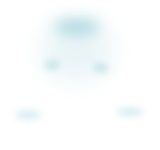
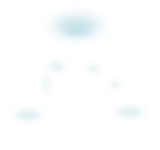
El capitán Buscapina: la luz de la tele le pega a él, y la boleta sale para afuera
La luz va encima del títere (sumada): cuando pone el partido, lo que se le
calienta es la gorra, los hombros y la rodilla. El golpe de muñeca abre el
antebrazo lejos de la cara, la cara vuelta se funde sobre la nuca sin dejar
ver la nieve, y la estampa entra en los 320 caracteres del esquema.

Changed region(s): [[0.5938, 0.4, 0.6875, 0.5067], [0.2812, 0.3733, 0.3438, 0.4533]]

diff --git a/src/lib/bestiario/arte-buscapina.ts b/src/lib/bestiario/arte-buscapina.ts
@@ -605,18 +605,21 @@ const boleta = (): string => boletaD(0, 0, 16, 11, 0, 111, 0.55);
 const vaho = (): string => nube(0, 0, 13, 8, T.nieve, 'm', 0.5) + nube(4, -3, 7, 5, T.lente, 's', 0.45) + nube(-3, 2, 5, 3, T.nieve, 's', 0.4);
 
 /**
- * La luz de la tele, que la página suma (`mix-blend-mode: screen`) y la isla hace titilar. Va detrás
- * de él, porque la tele está detrás: un halo arriba de la gorra y de los hombros, en el aire con
- * nieve, y el charco a los costados.
+ * La luz de la tele, que la página suma (`mix-blend-mode: screen`) y la isla hace titilar: el halo en
+ * el aire con nieve arriba de la gorra, el charco a los costados, y encima de él lo que mira para
+ * arriba (la copa de la gorra, los hombros, la rodilla, el filo del brazo en que se apoya). Así,
+ * cuando cambia de canal, lo que cambia es la luz que le pega a él.
  */
 function luz(color: string): string {
   return (
-    nube(-6, -196, 46, 16, color, 'l', 0.7) +
-    nube(-56, -120, 16, 10, color, 'm', 0.45) +
-    nube(42, -114, 16, 10, color, 'm', 0.45) +
+    nube(-6, -198, 46, 15, color, 'l', 0.7) +
+    nube(-8, -186, 24, 5, color, 'm', 0.55) +
+    nube(-46, -117, 14, 4.5, color, 'm', 0.6) +
+    nube(26, -112, 12, 4, color, 'm', 0.5) +
+    nube(70, -80, 10, 4, color, 'm', 0.5) +
+    nube(-68, -82, 4, 22, color, 'm', 0.35) +
     nube(-104, -20, 26, 8, color, 'm', 0.4) +
-    nube(100, -26, 26, 8, color, 'm', 0.4) +
-    nube(-6, -150, 70, 60, color, 'xl', 0.22)
+    nube(100, -26, 26, 8, color, 'm', 0.4)
   );
 }
 
@@ -681,7 +684,6 @@ export function adentroDelTitere(): string {
     parte(`brazo-${n + 1}`, parte(`antebrazo-${n + 1}`, img(`buscapina-antebrazo-${n + 1}`)) + img(`buscapina-brazo-${n + 1}`));
   const [bx, by] = A.boca;
   return (
-    `<g class="bt-buscapina-luz">${parte('luz', img('buscapina-luz'), ' opacity="0.6"')}${parte('luz-cancha', img('buscapina-luz-cancha'), ' opacity="0"')}</g>` +
     parte('piernas', img('buscapina-piernas')) +
     parte(
       'espalda',
@@ -692,7 +694,8 @@ export function adentroDelTitere(): string {
         parte('cabeza', parte('nuca', img('buscapina-cabeza')) + parte('vuelta', img('buscapina-cabeza-vuelta'), ' opacity="0"')) +
         parte('vaho', img('buscapina-vaho'), ` opacity="0" transform="translate(${bx + 10} ${by - 6})"`),
     ) +
-    parte('boleta', img('buscapina-boleta'), ' opacity="0"')
+    parte('boleta', img('buscapina-boleta'), ' opacity="0"') +
+    `<g class="bt-buscapina-luz">${parte('luz', img('buscapina-luz'), ' opacity="0.6"')}${parte('luz-cancha', img('buscapina-luz-cancha'), ' opacity="0"')}</g>`
   );
 }
 

diff --git a/src/lib/bestiario/rig-buscapina.ts b/src/lib/bestiario/rig-buscapina.ts
@@ -4,16 +4,14 @@
  * para recortar cada pieza alrededor de su bisagra, y los lee la conducta
  * (`scripts/bestiario/buscapina.ts`) para moverlas sin llevarse el aerógrafo al teléfono.
  *
- * Todo va en coordenadas de títere: el (0, 0) es la nieve donde está sentado, entre las dos rodillas;
- * arriba es negativo. A escala 1 mide lo que mide el dibujo; la escena lo achica (`BUSCA.escala`).
+ * Todo va en coordenadas de títere: el (0, 0) es la nieve donde está sentado, debajo de la espina;
+ * arriba es negativo. Sentado, de la nieve a la copa de la gorra, mide unos 195; la escena lo achica a
+ * la mitad (`BUSCA.escala`), que es lo que mide una persona sentada al lado de los de Cybersiberia.
  */
 
-import { CYBER, COSAS_DE_CYBERSIBERIA } from './rig-entornos.ts';
+import { CYBER } from './rig-entornos.ts';
 
 export type P = readonly [number, number];
-
-/** Lo que mide sentado, de la nieve a la copa de la gorra. */
-export const ALTO_DIBUJADO = 202;
 
 /**
  * Dónde está sentado: delante de la tele, un poco a la izquierda del medio (la mira de abajo y de
@@ -79,9 +77,6 @@ export const BUSCA_ARMADO = {
   tirita: 1.1,
 } as const;
 
-/** La vieja silueta pintada: el capitán se toca ahora en el títere, y esto queda para los tests. */
-export const SILUETA_VIEJA = COSAS_DE_CYBERSIBERIA['el-capitan-buscapina']!;
-
 /** Un punto del títere, llevado al recinto. */
 export const enElRecinto = ([x, y]: P): P => [BUSCA.x + x * BUSCA.escala, BUSCA.piso + y * BUSCA.escala];
 
@@ -104,8 +99,11 @@ export function enElAntebrazo(n: 0 | 1, p: P, { brazo, antebrazo }: Gesto): P {
 /** Dónde queda la mano `n` con el gesto puesto. */
 export const manoCon = (n: 0 | 1, g: Gesto): P => enElAntebrazo(n, BUSCA_ARMADO.manos[n], g);
 
-/** El golpe de muñeca con que la suelta: el de `paga`, con el antebrazo un poco más atrás. */
-export const SUELTA: Gesto = { brazo: BUSCA_ARMADO.gestos.paga.brazo, antebrazo: BUSCA_ARMADO.gestos.paga.antebrazo + 22 };
+/**
+ * El golpe de muñeca con que la suelta: desde `paga`, el antebrazo se abre para afuera, lejos de la
+ * cara, que es como se tira algo por encima del hombro sin mirar dónde cae.
+ */
+export const SUELTA: Gesto = { brazo: BUSCA_ARMADO.gestos.paga.brazo - 8, antebrazo: BUSCA_ARMADO.gestos.paga.antebrazo - 34 };
 
 /**
  * El vuelo de la boleta: una parábola que sale de la mano, por encima del hombro, en el golpe de

diff --git a/src/scripts/bestiario/buscapina.ts b/src/scripts/bestiario/buscapina.ts
@@ -108,7 +108,9 @@ export function escribir(p: Pose): Record<string, { transform?: string; opacity?
       transform: `translate(${n2(p.tirita)} 0) rotate(${n2(p.inclina)} ${ax} ${ay}) translate(${ax} ${ay}) scale(1 ${(1 + p.respira * 0.012).toFixed(4)}) translate(${-ax} ${-ay})`,
     },
     cabeza: { transform: `rotate(${n2(p.cabeza)} ${cx} ${cy})` },
-    nuca: { opacity: n2(1 - p.vuelta) },
+    // La cara vuelta se funde encima de la nuca, que no se apaga hasta que la tapa entera: así no se
+    // ve la nieve a través de la cabeza a mitad del giro.
+    nuca: { opacity: p.vuelta < 0.98 ? '1.00' : '0.00' },
     vuelta: { opacity: n2(p.vuelta) },
     nieve: { opacity: n2(p.nieve) },
     vaho: { transform: `translate(${n2(p.vaho.x)} ${n2(p.vaho.y)}) scale(${n2(p.vaho.s)})`, opacity: n2(p.vaho.o) },
@@ -291,7 +293,7 @@ export const armarBuscapina: Armar | null = (marcos: readonly SVGGElement[], esc
     // La luz: la de la tele titila siempre; cuando cambia de canal se corta un instante, y el partido es tibio.
     const corte = e.modo === 'canal' && u > DURA.canal[0] + 0.15 && u < DURA.canal[0] + 0.45 ? 0.15 : 1;
     const tv = 0.6 + titila(t);
-    const cancha = e.partido ? 0.75 + 0.15 * Math.sin(t * 3.1) * Math.sin(t * 1.7) : 0;
+    const cancha = e.partido ? 0.85 + 0.15 * Math.sin(t * 3.1) * Math.sin(t * 1.7) : 0;
     aplicar({
       brazos: [b0, b1],
       inclina,

diff --git a/src/lib/bestiario/buscapina.test.ts b/src/lib/bestiario/buscapina.test.ts
@@ -266,12 +266,10 @@ test('vivo: respira con vaho, cambia al partido, se agarra el costado, tirita, y
     vivo.mover(t, 1 / 30);
     if (opacidad(j.parte('vuelta')) > 0.95) mira = true;
     if (giro(j.parte('brazo-1').getAttribute('transform')) > A.gestos.paga.brazo * 0.9) arriba = true;
-    const tr = j.parte('boleta').getAttribute('transform')!;
-    const [bx, by] = /translate\((-?[\d.]+) (-?[\d.]+)\)/.exec(tr)!.slice(1).map(Number) as [number, number];
+    const by = Number(/translate\(-?[\d.]+ (-?[\d.]+)\)/.exec(j.parte('boleta').getAttribute('transform')!)![1]);
     if (t > t0 + PAGA.suelta + 0.1 && opacidad(j.parte('boleta')) > 0.9 && by < A.hombros[0][1]) vuela = true;
-    if (t < t0 + PAGA.sube[0]) continue;
-    assert.ok(opacidad(j.parte('boleta')) > 0 || t < t0 + PAGA.sube[0] + 0.05, `en ${(t - t0).toFixed(2)} la boleta no está`);
-    void bx;
+    // Desde que la agarra hasta que cae, la boleta se ve siempre: en la mano o en el aire.
+    if (t > t0 + PAGA.sube[0] + 0.05) assert.ok(opacidad(j.parte('boleta')) > 0, `en ${(t - t0).toFixed(2)} la boleta no está`);
   }
   assert.ok(mira, 'tocado, no se da vuelta a mirarte');
   assert.ok(arriba, 'tocado, no levanta la mano de las boletas');
